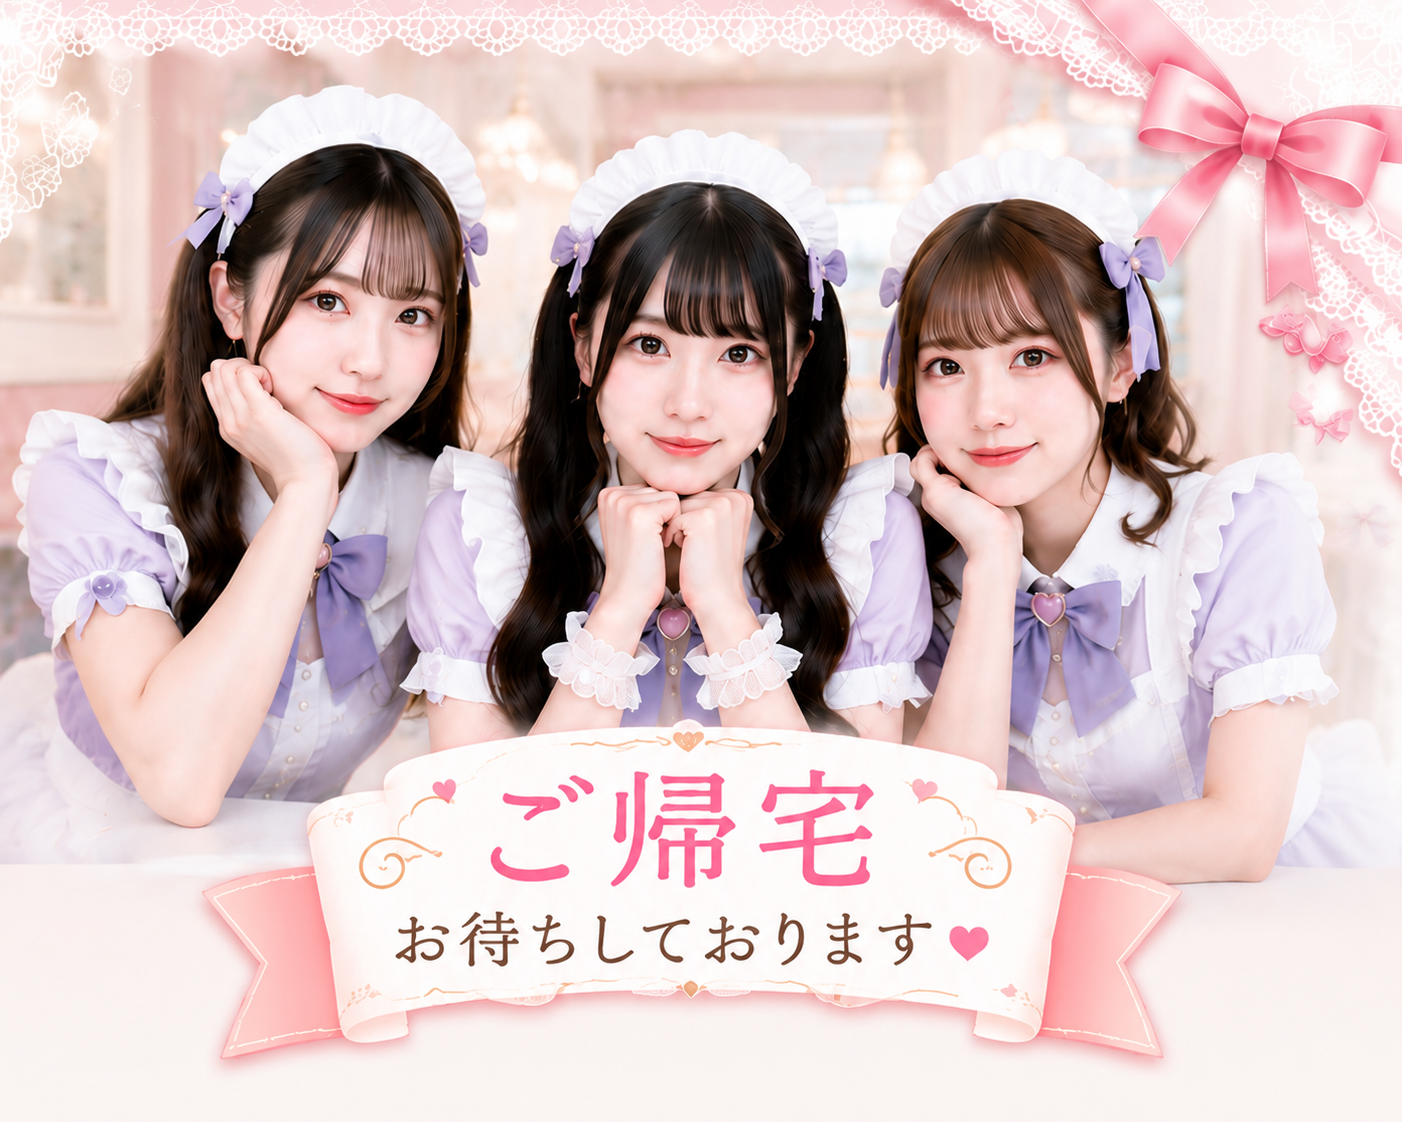
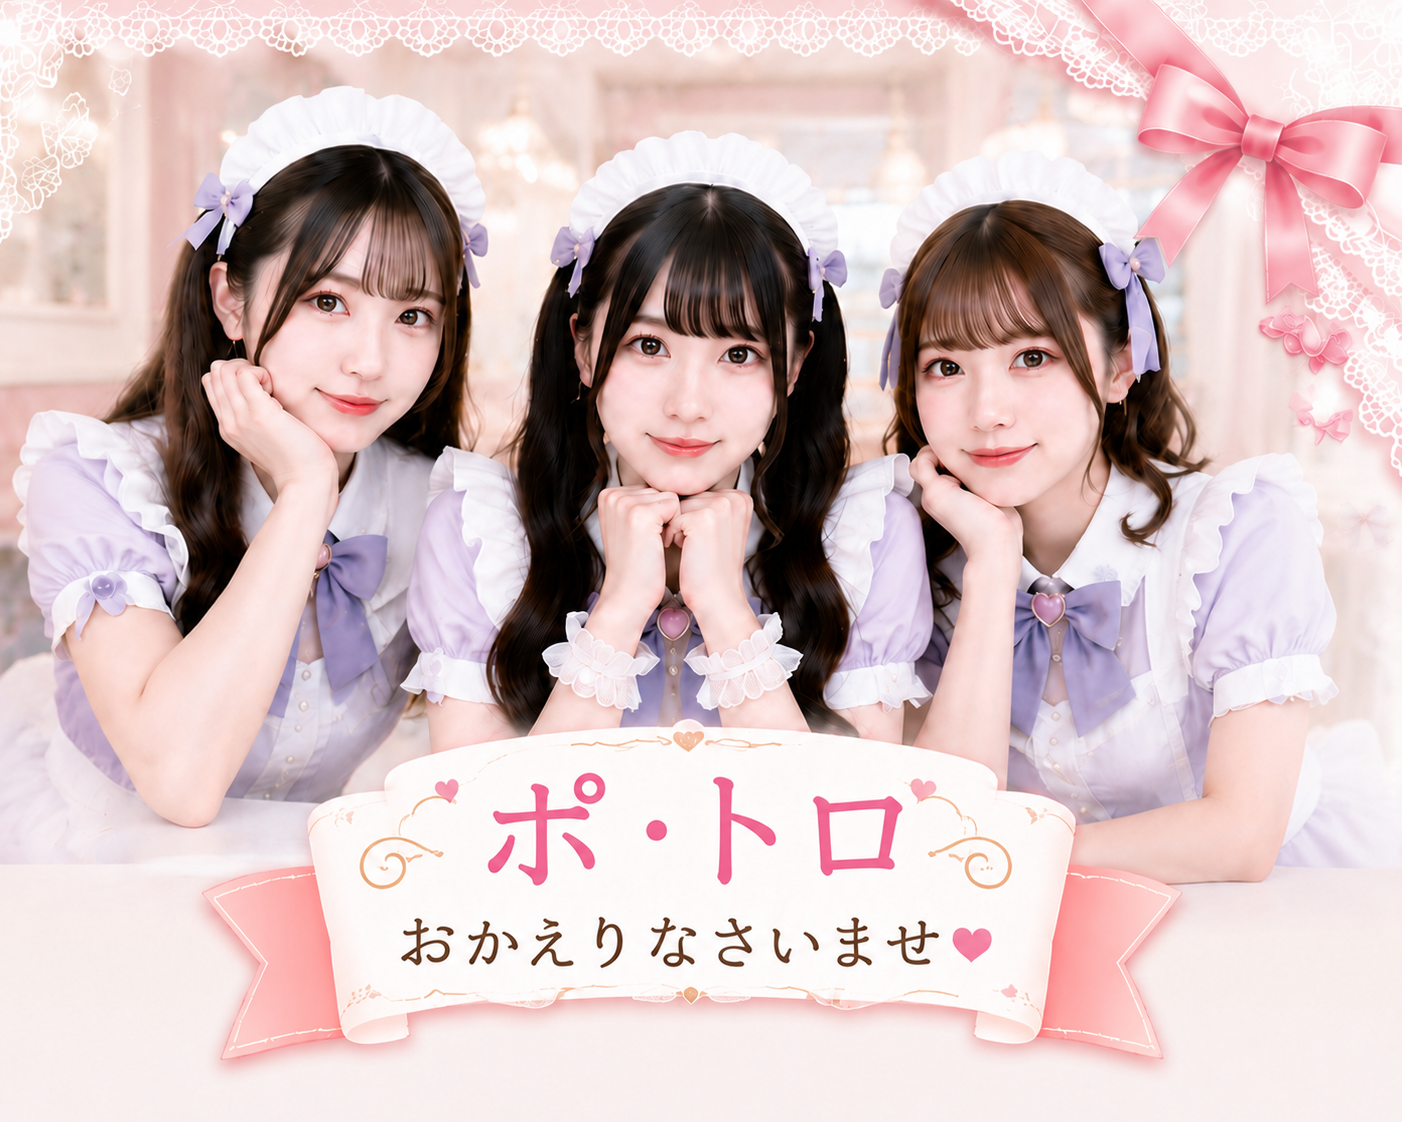
Move welcome hero image below headline

diff --git a/index.html b/index.html
@@ -177,6 +177,13 @@
         <div class="reveal">
           <h1 class="headline"><span class="headline-line headline-line-welcome">ようこそ、ご主人さま・お嬢さま。</span><br><span class="headline-line">PO・TOROの入口はここ♡</span></h1>
 
+          <div class="hero-visual hero-visual-welcome">
+            <picture>
+              <source srcset="img/hero-welcome-maids.webp" type="image/webp">
+              <img src="img/hero-welcome-maids.png" alt="ポ・トロへおかえりなさいませと迎えるメイドさんたち" width="1402" height="1122" decoding="async" fetchpriority="high">
+            </picture>
+          </div>
+
           <div class="hero-priority" aria-label="よく使う来店前メニュー">
             <a href="#news">
               <span>最新情報</span>
@@ -242,13 +249,6 @@
                 料金：<b>30分 1,000円（税込）</b>／各種ドリンク飲み放題（生ビール含む）／延長は30分単位
               </div>
             </div>
-          </div>
-
-          <div class="hero-visual hero-visual-welcome">
-            <picture>
-              <source srcset="img/hero-welcome-maids.webp" type="image/webp">
-              <img src="img/hero-welcome-maids.png" alt="ご帰宅をお待ちしているメイドさんたち" width="1402" height="1122" decoding="async" fetchpriority="high">
-            </picture>
           </div>
 
           <div class="visitor-guide" aria-label="初めての方におすすめの導線">
